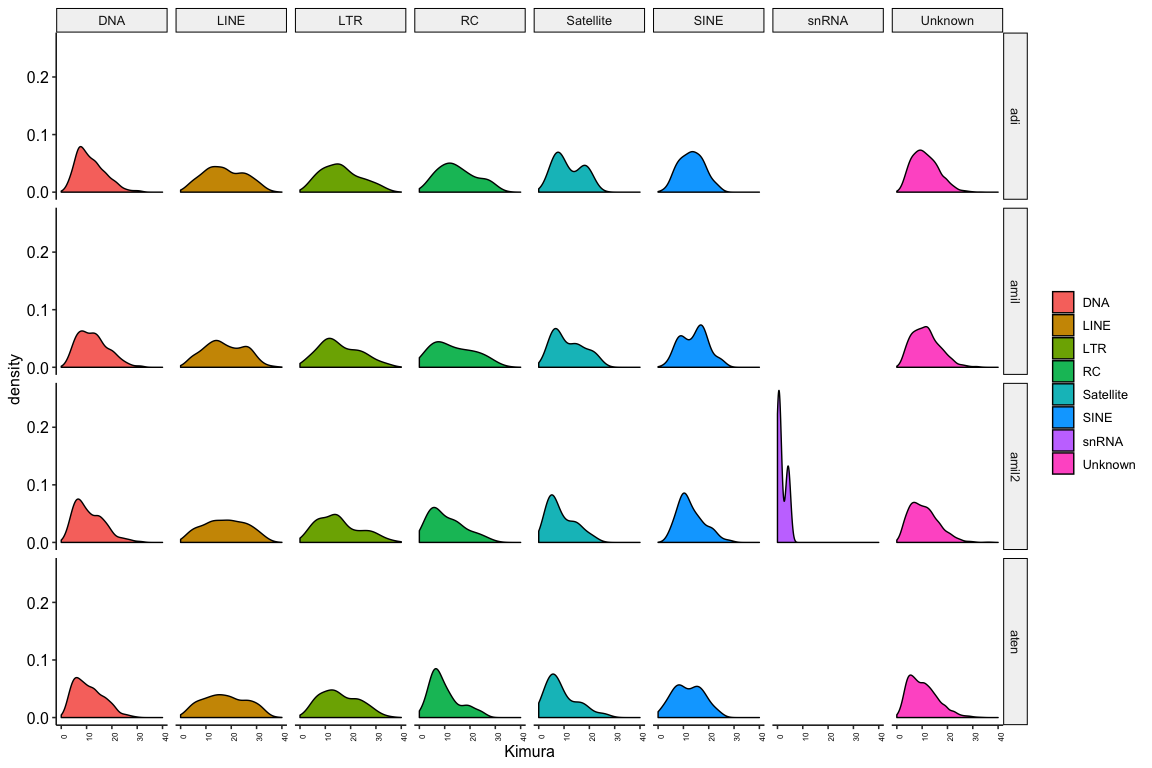
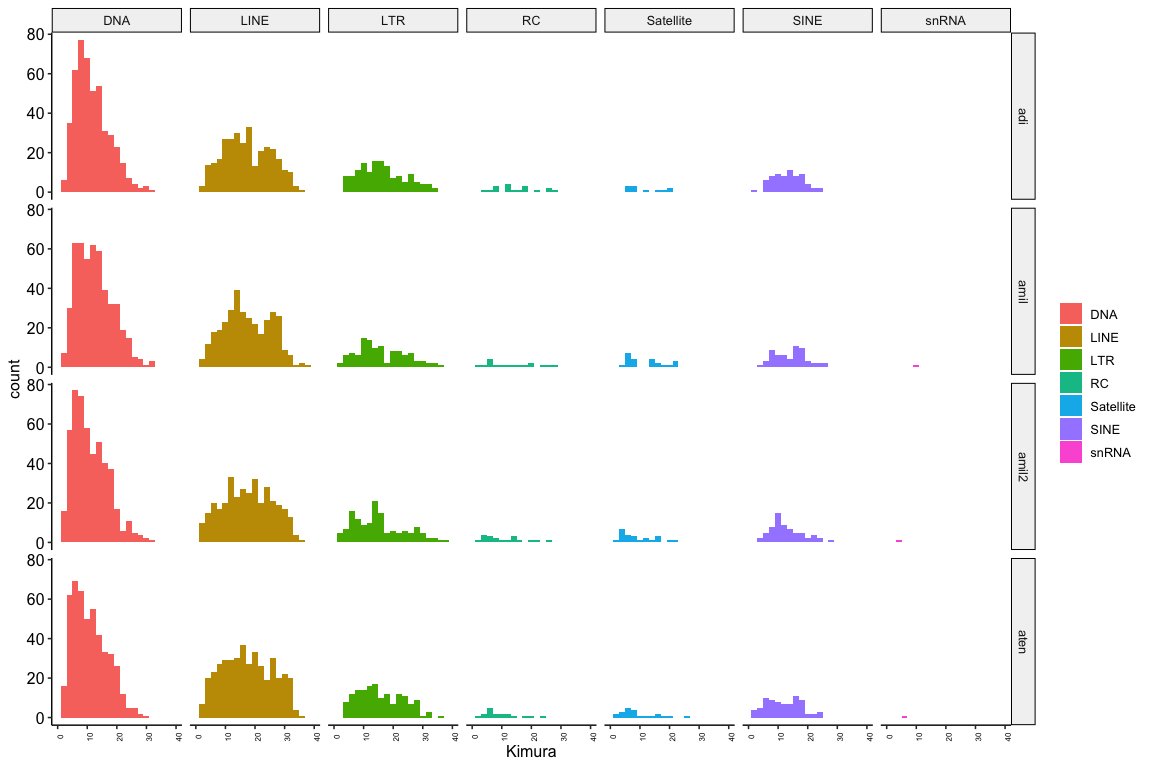
Add repeats

diff --git a/09_repeats.md b/09_repeats.md
@@ -61,10 +61,10 @@ genome codes)
 
 ![](09_repeats_files/figure-gfm/unnamed-chunk-4-1.png)<!-- -->
 
-Looking in detail at major classes of repeats we see that the `amil2`
-assembly includes some very recent snRNA repeats that are not present in
-`aten`. Since these are recent they could represent features that have
-arisen since the split with *A. tenuis*
+Unknown repeats dominate this plot so we eliminate those in the next
+plot in order looking in detail at major classes of known repeats. There
+are very few noticeable changes at this level suggesting that the broad
+repeat composition is relatively invariant across Acroporid genomes.
 
 ![](09_repeats_files/figure-gfm/unnamed-chunk-5-1.png)<!-- -->
 
